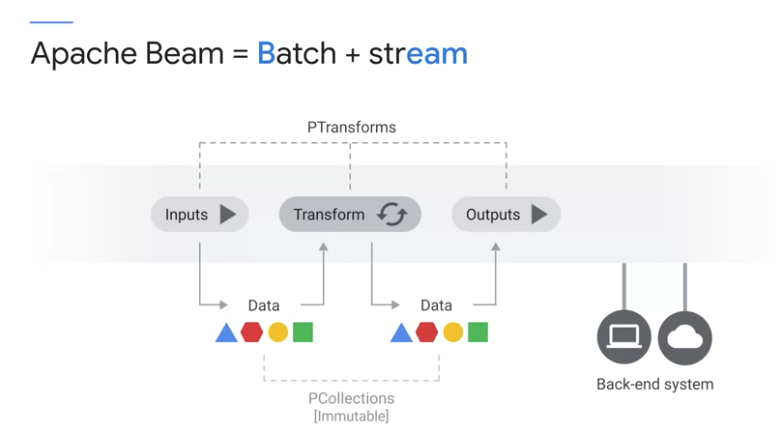
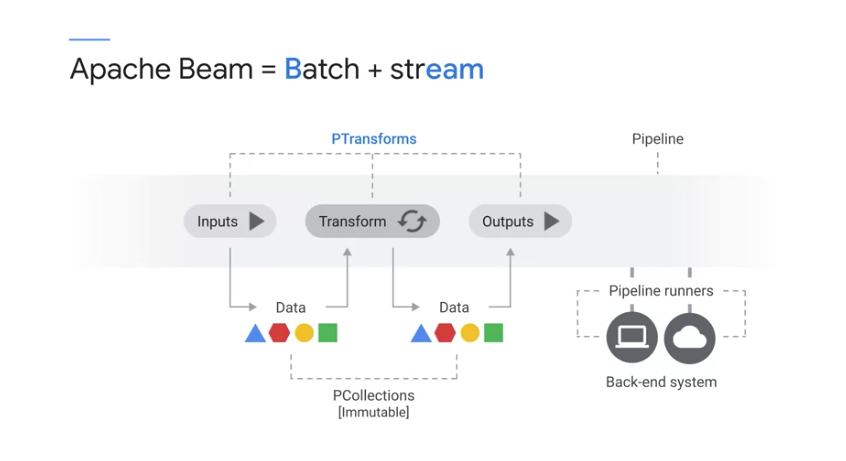
complete gcp-dataflow course2 wk1

diff --git a/gcp-dataflow/coursera-dataflow-course2-develop-pipeline.rst b/gcp-dataflow/coursera-dataflow-course2-develop-pipeline.rst
@@ -25,7 +25,20 @@ Fore main concepts
 * **Pipelines:** Identifies "the date to be processed" and "the action to be taken on the data"
 * **Pipeline Runners:**
 
+  * analogous to Kubernete Engine.
+  * The pipeline can be on local computer, in a VM, in data center, in Cloud (like Data Flow). - main difference is scalability
+  * 
+
+Batch programming vs. Stream processing
+>>>>>>>>>>>>>>>>>>>>>>>>>>>>>>>>>>>>>>>
+
+* Immutable data is one of key difference.
+* ( I think the speaker is trying to say that data used to be mutable to increase memory efficienty when it was expensive. )
+* ( But, since it is not, to reduce complixity in access control and sharing, Immutable is used in BEAM. )
+
+
 .. image:: ./images/gcp-dataflow-course2-wk1-1.png
+
 
 
 Utility Transforms
@@ -44,19 +57,33 @@ References: https://beam.apache.org/documentation/transforms/python/overview/
 DoFn Lifecycle
 --------------
 
-ParDo: kind of simple "map" or "filter"
+ParDo: kind of simple "map" or "filter" ( with more powerful and versatile transform )
 
 .. image:: ./images/gcp-dataflow-course2-wk1-2.png
 .. image:: ./images/gcp-dataflow-course2-wk1-3.png
 .. image:: ./images/gcp-dataflow-course2-wk1-4.png
 
 
-references
+Summary
+>>>>>>>
 
-  * https://beam.apache.org/documentation/basics/
-  * https://beam.apache.org/documentation/programming-guide/
-  * https://beam.apache.org/documentation/resources/learning-resources/
-  * https://beam.apache.org/documentation/patterns/overview/
+* Elements in a collection are processing bundles.
+* The devision of the collection into bundle is arbitrary and selected by Runner.
+* Since Runner can select, Streaming Runner can choose small bundle and Batch Processing Runner can choose large bundle.
+* Always mutate a state using a state variables rather than class members.
+
+  * Why? Runner may recycle Do Function or process the same bundle in different workers for redundancy.
+
+* a bundle may contain several keys, so store state in maps based on that key.
+
+
+references
+>>>>>>>>>>
+
+* https://beam.apache.org/documentation/basics/
+* https://beam.apache.org/documentation/programming-guide/
+* https://beam.apache.org/documentation/resources/learning-resources/
+* https://beam.apache.org/documentation/patterns/overview/
 
 
 .. code-block:: python
@@ -72,14 +99,19 @@ references
             # google palce to setup db connection / helper process
             pass
         def start_bundle(self):
+            # good place to start tracking bundle
+            # instance variables or metrics
             pass
         def process(self, element):
             # this is main function
             # this is where tranform happens.
+            # this may read the state objects or recive side inputs
+            # we can update the state
             pass
         def finish_bundle(self):
             pass
         def teardown(self):
+            # this is where we close db connections we open setup method.
             pass
 
 
@@ -113,6 +145,8 @@ It is also about the lack of order in data processing.
 Windows in Beam
 ---------------
 
+You decide where you put the message.
+
 * as a way to divide data in groups to transform the data.
 * dividing data into time-base finite chunks.
 * Required when doing aggregatios over unbounded data using Beam primitives ( GroupByKey, Combiners )
@@ -124,11 +158,11 @@ Windows in Beam
     * Processing time
     * Event Time
 
-* deciding where(window) to put the msg ( by processing time or event time )
+* deciding where(window) to put the msg ( by `processing time` or `event time` )
 
 
-Processing time
->>>>>>>>>>>>>>>
+Windowing by Processing time
+>>>>>>>>>>>>>>>>>>>>>>>>>>>>
 
 .. image:: ./images/gcp-dataflow-course2-wk1-5.png
 
@@ -138,22 +172,22 @@ Processing time
     * the msg will be assigned to different batches if msg arrives out of order.
 
 
-Event Time
->>>>>>>>>>
+Windowing by Event Time
+>>>>>>>>>>>>>>>>>>>>>>>
 
 .. image:: ./images/gcp-dataflow-course2-wk1-6.png
 
-Using timestamp in the orginal message
+Using timestamp in the orginal message that is generated by "Source"
 
 
-Types of windows in Beam
->>>>>>>>>>>>>>>>>>>>>>>>
+Types of windows in Apche Beam
+>>>>>>>>>>>>>>>>>>>>>>>>>>>>>>
 
 .. image:: ./images/gcp-dataflow-course2-wk1-7.png
 
 * **Fixed:** none-overlapping interval
 * **Sliding:** may overlap interval, calculating a moving average
-* **Session:** capturing user activities.
+* **Session:** capturing burst user activities.
 
     * timing is triggered by another element.
     * data dependent
@@ -163,6 +197,8 @@ Types of windows in Beam
 
 Watermarks
 ----------
+
+You decide when "Windows" emit the results.
 
 * Decide when the window emits the results
 * simply maybe when the window closes. ( intuitive for fixed window )
@@ -174,7 +210,7 @@ Watermarks
 
 .. image:: ./images/gcp-dataflow-course2-wk1-8.png
 .. image:: ./images/gcp-dataflow-course2-wk1-9.png
-
+ 
 * The relationship between `processing timestamp` and `event timestamp` defines the watermark.
 * Any msg before the watermak is considered to be `early`
 * Watermark defines if the msg is late or not.
@@ -195,14 +231,28 @@ Watermarks
 
 .. image:: ./images/gcp-dataflow-course2-wk1-12.png
 
+* Data freshness: a measurement of how far the oldest messages is far from the current moment.
+
+  * The below graph shows monitonically increasing value. I might be cause pipline with  processing message
+  or input message is increased very quickly and data is accumlating,, or both.
+  * how to differciate them?
+
+* System Latency: measuring the time it takes to fully process a message. ( inculding wait time. )
+
+.. image:: ./images/gcp-dataflow-course2-wk1-13.png
+
 
 Triggers
 --------
 
-* Event time
-* Processing time
-* Composite ( combining multiple triggers )
+Triggers are useful to define in precise detail when we want to see the results of our window.
+
+* **Event time:** They operate on event time.
+* **Processing time:** They operate on processing time.
+* **Composite:** They combine multiple triggers.
 * **Data-driven:** examining the data as it arrives and firing when it meets a certain condition.
+
+.. image:: ./images/gcp-dataflow-course2-wk1-14.png
 
 
 Accumulation Modes
@@ -213,12 +263,111 @@ Accumulation Modes
     *  using all msg in the window
     *  cons: if window is wide, resource usage is high.
 
+.. image:: ./images/gcp-dataflow-course2-wk1-15.png
+
 
 * Discard
 
-    * using only the msg arrived since the prev. calculation )
-    * pros: although window is wide, resource usage is log.
+    * using only the msg arrived since the prev. calculation ( only using new msg )
+    * pros: although window is wide, resource usage is low.
+
+.. image:: ./images/gcp-dataflow-course2-wk1-16.png
 
 
-Qwikilabs practice
-------------------
+Qwikilabs practice - Batch Analytics
+------------------------------------
+
+* https://googlecoursera.qwiklabs.com/focuses/17762887?parent=lti_session
+
+.. code-block::
+
+    git clone https://github.com/GoogleCloudPlatform/training-data-analyst
+    cd ~/training-data-analyst/quests/dataflow_python/
+
+
+Part 1: Aggregating site traffic by user
+>>>>>>>>>>>>>>>>>>>>>>>>>>>>>>>>>>>>>>>>
+
+Solution: https://github.com/GoogleCloudPlatform/training-data-analyst/blob/master/quests/dataflow_python/3_Batch_Analytics/solution/batch_user_traffic_pipeline.py
+
+1. Reads the day’s traffic from a file in Cloud Storage
+2. Converts each event into a CommonLog object.
+3. Sums the number of hits for each unique user by grouping each object by user ID and combining the values to get the total number of hits for that particular user.
+4. Performs additional aggregations on each user
+5. Writes the resulting data to BigQuery
+
+
+Part 2: Aggregating site traffic by minute
+>>>>>>>>>>>>>>>>>>>>>>>>>>>>>>>>>>>>>>>>>>
+
+
+Qwikilabs practice - Streaming Analytics Pipeline
+--------------------------------------------------
+
+* https://googlecoursera.qwiklabs.com/focuses/17762887?parent=lti_session
+
+.. code-block::
+
+    git clone https://github.com/GoogleCloudPlatform/training-data-analyst
+    cd ~/training-data-analyst/quests/dataflow_python/
+
+
+Objectives
+>>>>>>>>>>
+
+* Read data from a streaming source.
+* Write data to a streaming sink.
+* Window data in a streaming context.
+* Experimentally verify the effects of lag.
+
+
+Quizs
+-----
+
+1. What can you do if two messages arrive at your pipeline out of order?
+
+    A. You can recover the order of the messages with a window using event time.
+
+2. What are the types of windows that you can use with Beam?
+
+    A. Fixed, sliding, and session windows
+
+3. How does Apache Beam decide that a message is late?
+
+    A. A message is late if its timestamp is before the watermark. ( I think this answer is incorrect. )
+
+4. How many triggers can a window have?
+
+    A. As many as we set.
+
+
+Additional resources
+--------------------
+
+* https://www.youtube.com/watch?v=TWxSLmkWPm4
+* https://www.oreilly.com/radar/the-world-beyond-batch-streaming-101/
+* https://www.oreilly.com/radar/the-world-beyond-batch-streaming-102/
+* https://beam.apache.org/documentation/programming-guide/
+
+
+Sources & Sinks
+---------------
+
+Sources & Sinks
+>>>>>>>>>>>>>>>
+
+    * a `souce` is when you read input data into a BEAM pipeline.
+    * a `sink` is PTransform that performs a writer to the specified detination.
+    * a common output for a `sink` is PDone
+
+.. image:: ./images/gcp-dataflow-course2-wk1-17.png
+.. image:: ./images/gcp-dataflow-course2-wk1-18.png
+
+
+* Text IO & File IO
+* BigQuery IO
+* PubSub IO
+* Kafka IO
+* BigTable IO
+* Avro IO
+* Splittable DoFn
